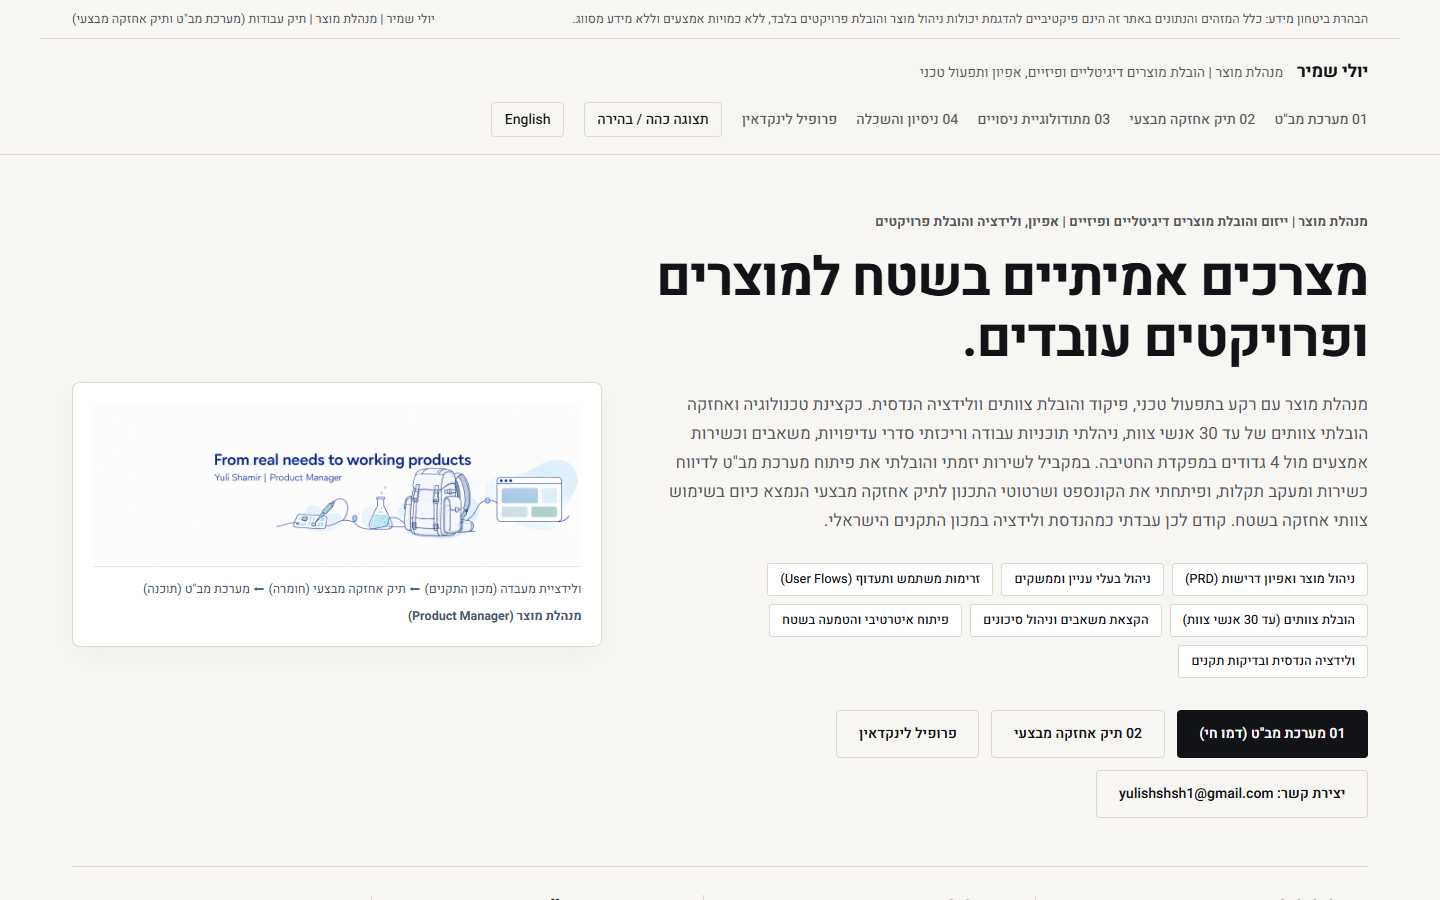
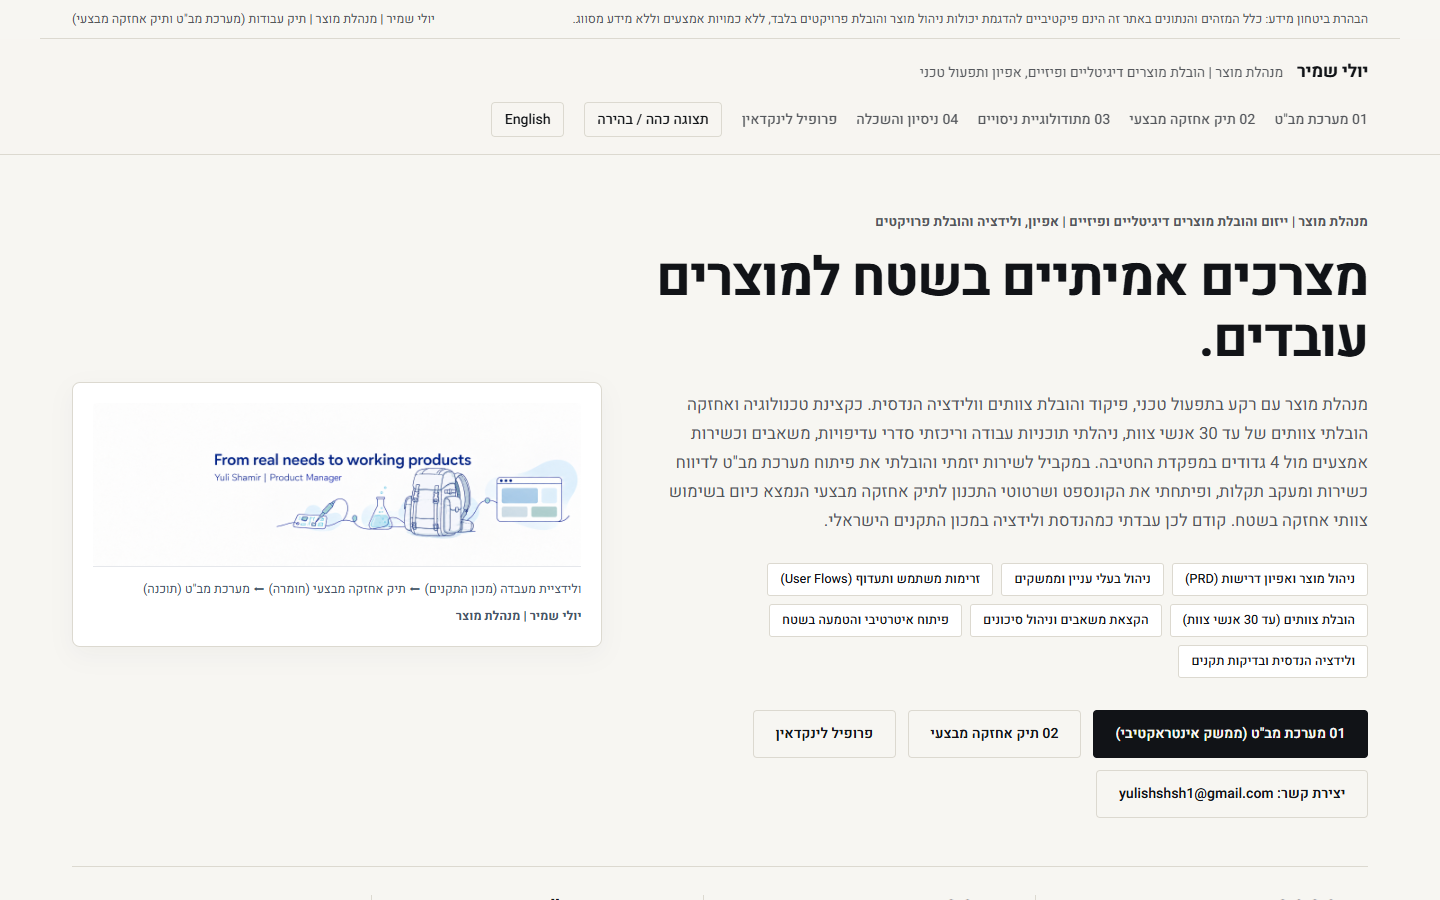
Polish Hebrew and English Product Manager titles and OG metadata

Changed region(s): [[0.6562, 0.3422, 0.9688, 0.4044], [0.5312, 0.7778, 0.875, 0.84], [0.2812, 0.6533, 0.4062, 0.7156]]

diff --git a/index.html b/index.html
@@ -9,18 +9,18 @@
       document.querySelector('meta[name="color-scheme"]').content = localStorage.getItem("color-scheme") ?? "light";
     } catch (e) {}
   </script>
-  <title>יולי שמיר | מנהלת מוצר | תיק עבודות (מערכת מב"ט ותיק אחזקה מבצעי) (מערכת מב"ט ותיק אחזקה מבצעי)</title>
-  <meta name="description" content="תיק עבודות של יולי שמיר | מנהלת מוצר של יולי שמיר: הדגמה חיה של מערכת מב"ט לבקרת כשירות ומעקב תקלות, ותיק אחזקה מבצעי (מענה שלם אחזקתי נייד)." />
+  <title>יולי שמיר | מנהלת מוצר | תיק עבודות (מערכת מב"ט ותיק אחזקה מבצעי)</title>
+  <meta name="description" content="יולי שמיר | מנהלת מוצר: תיק עבודות הכולל את מערכת מב״ט לבקרת כשירות ומעקב תקלות, ותיק אחזקה מבצעי (מענה שלם אחזקתי נייד)." />
   <meta property="og:type" content="website" />
   <meta property="og:url" content="https://yulishamir.github.io/" />
-  <meta property="og:title" content="יולי שמיר | מנהלת מוצר | תיק עבודות (מערכת מב"ט ותיק אחזקה מבצעי) (מערכת מב"ט ותיק אחזקה מבצעי)" />
-  <meta property="og:description" content="תיק עבודות של יולי שמיר | מנהלת מוצר של יולי שמיר: מערכת מב"ט לבקרת כשירות ותיק אחזקה מבצעי." />
+  <meta property="og:title" content="יולי שמיר | מנהלת מוצר | תיק עבודות (מערכת מב״ט ותיק אחזקה מבצעי)" />
+  <meta property="og:description" content="יולי שמיר | מנהלת מוצר: מערכת מב״ט לבקרת כשירות ותיק אחזקה מבצעי." />
   <meta property="og:image" content="https://yulishamir.github.io/og-preview.png" />
   <meta property="og:image:width" content="1440" />
   <meta property="og:image:height" content="900" />
   <meta name="twitter:card" content="summary_large_image" />
   <meta name="twitter:title" content="יולי שמיר | מנהלת מוצר | תיק עבודות (מערכת מב"ט ותיק אחזקה מבצעי)" />
-  <meta name="twitter:description" content="תיק עבודות של יולי שמיר | מנהלת מוצר של יולי שמיר: מערכת מב"ט לבקרת כשירות ותיק אחזקה מבצעי." />
+  <meta name="twitter:description" content="יולי שמיר | מנהלת מוצר: מערכת מב״ט לבקרת כשירות ותיק אחזקה מבצעי." />
   <meta name="twitter:image" content="https://yulishamir.github.io/og-preview.png" />
   <link rel="preconnect" href="https://fonts.googleapis.com">
   <link rel="preconnect" href="https://fonts.gstatic.com" crossorigin>
@@ -1211,7 +1211,7 @@
         <div>
           <span class="hero-kicker" data-i18n="heroKicker">מנהלת מוצר | ייזום והובלת מוצרים דיגיטליים ופיזיים | אפיון, ולידציה והובלת פרויקטים</span>
           <h1 class="hero-headline" data-i18n="heroHeadline">
-            מצרכים אמיתיים בשטח למוצרים ופרויקטים עובדים.
+            מצרכים אמיתיים בשטח למוצרים עובדים.
           </h1>
           <p class="hero-bio" data-i18n="heroBio">
             מנהלת מוצר עם רקע בתפעול טכני, פיקוד והובלת צוותים וולידציה הנדסית. כקצינת טכנולוגיה ואחזקה הובלתי צוותים של עד 30 אנשי צוות, ניהלתי תוכניות עבודה וריכזתי סדרי עדיפויות, משאבים וכשירות אמצעים מול 4 גדודים במפקדת החטיבה. במקביל לשירות יזמתי והובלתי את פיתוח מערכת מב"ט לדיווח כשירות ומעקב תקלות, ופיתחתי את הקונספט ושרטוטי התכנון לתיק אחזקה מבצעי הנמצא כיום בשימוש צוותי אחזקה בשטח. קודם לכן עבדתי כמהנדסת ולידציה במכון התקנים הישראלי.
@@ -1228,7 +1228,7 @@
           </div>
 
           <div class="hero-links">
-            <a href="#work-mabat" class="btn-editorial solid" data-i18n="cta1">01 מערכת מב"ט (דמו חי)</a>
+            <a href="#work-mabat" class="btn-editorial solid" data-i18n="cta1">01 מערכת מב"ט (ממשק אינטראקטיבי)</a>
             <a href="#work-backpack" class="btn-editorial ghost" data-i18n="cta2">02 תיק אחזקה מבצעי</a>
             <a href="https://www.linkedin.com/in/yuli-shamir-a19510447" target="_blank" rel="noopener" class="btn-editorial ghost" data-i18n="cta3">פרופיל לינקדאין</a>
             <a href="mailto:yulishshsh1@gmail.com" class="btn-editorial ghost" data-i18n="cta4">יצירת קשר: yulishshsh1@gmail.com</a>
@@ -1237,10 +1237,10 @@
 
         <!-- Visual Continuity with Yuli's LinkedIn Profile Banner -->
         <div class="signature-art-card">
-          <img src="yuli-banner.png" alt="מצרכים אמיתיים בשטח למוצרים ופרויקטים עובדים | יולי שמיר | מנהלת מוצר" fetchpriority="high" />
+          <img src="yuli-banner.png" alt="מצרכים אמיתיים בשטח למוצרים עובדים | יולי שמיר | מנהלת מוצר" fetchpriority="high" />
           <div class="signature-caption">
             <span data-i18n="sigCap">ולידציית מעבדה (מכון התקנים) ⬅ תיק אחזקה מבצעי (חומרה) ⬅ מערכת מב"ט (תוכנה)</span>
-            <strong data-i18n="sigRole">מנהלת מוצר (Product Manager)</strong>
+            <strong data-i18n="sigRole">יולי שמיר | מנהלת מוצר</strong>
           </div>
         </div>
       </div>
@@ -2008,7 +2008,7 @@
 
     let isHeb = true;
     const enText = {
-      opsecText: 'OPSEC Notice: All identifiers and figures on this site are fictional for Project & Product Management demonstration only, with zero asset quantities and zero classified information.',
+      opsecText: 'OPSEC Notice: All identifiers and figures on this site are fictional for Product Manager portfolio illustration only, with zero asset quantities and zero classified information.',
       opsecRight: 'Yuli Shamir | Product Manager Portfolio',
       brandName: 'Yuli Shamir',
       brandRole: 'Product Manager | Digital & Physical Products, Technical Operations & Project Leadership',
@@ -2019,8 +2019,8 @@
       navLinkedin: 'LinkedIn',
       themeLabel: 'Light / Dark',
       heroKicker: 'Product Manager | Digital & Physical Products | Discovery, Validation & Project Delivery',
-      heroHeadline: 'From real needs to working products and operational delivery.',
-      heroBio: 'Product manager and technical operations officer experienced in turning real field needs into working digital and physical products, backed by team leadership and laboratory validation. As a Technology & Maintenance Officer, I have led teams of up to 30, managed work plans and coordinated priorities, resources and equipment readiness across four battalions at brigade headquarters. Alongside my service, I founded Mabat, an independent mobile product for equipment-status reporting and fault tracking, and developed the concept and design sketches for a field maintenance backpack now used by operational maintenance teams. Previously, I worked as a Validation Engineer at the Standards Institution of Israel (SII).',
+      heroHeadline: 'From real needs to working products.',
+      heroBio: 'Product Manager and technical operations officer experienced in turning real field needs into working digital and physical products, backed by team leadership and laboratory validation. As a Technology & Maintenance Officer, I have led teams of up to 30, managed work plans and coordinated priorities, resources and equipment readiness across four battalions at brigade headquarters. Alongside my service, I founded Mabat, an independent mobile product for equipment-status reporting and fault tracking, and developed the concept and design sketches for a field maintenance backpack now used by operational maintenance teams. Previously, I worked as a Validation Engineer at the Standards Institution of Israel (SII).',
       sk1: 'Product Management & PRD',
       sk2: 'Stakeholder Management',
       sk3: 'User Flows & Prioritization',
@@ -2028,20 +2028,20 @@
       sk5: 'Resource Allocation & Risk Management',
       sk6: 'Agile Iterative Delivery',
       sk7: 'Validation Engineering (SII)',
-      cta1: '01 Explore Mabat Live Demo',
+      cta1: '01 Explore Mabat Interactive System',
       cta2: '02 Field Maintenance Backpack',
       cta3: 'LinkedIn Profile',
       cta4: 'Contact: yulishshsh1@gmail.com',
       sigCap: 'Lab Validation (SII) ➔ Field Maintenance Backpack (Hardware) ➔ Mabat System (Software)',
-      sigRole: 'Product Manager',
+      sigRole: 'Yuli Shamir | Product Manager',
       stat1: 'Continuous experience across IDF technical operations & team leadership (Oct 2022 to Present) and SII engineering validation (2020 to Oct 2022)',
       stat2: 'Personnel led across battalion and brigade assignments, plus coordinating maintenance readiness across four battalions at brigade headquarters',
       stat3Num: 'Mabat (PWA)',
       stat3: 'Independently initiated mobile web product (PWA) for equipment readiness and fault tracking, leading requirements, developer work and user feedback',
       stat4: 'Field requirements, design sketches and stakeholder coordination with division leadership and IDF suppliers for a backpack now used in the field',
-      mabatTag: 'PROJECT 01 / DIGITAL PRODUCT PROJECT',
+      mabatTag: 'PRODUCT 01 / DIGITAL PRODUCT (PWA)',
       mabatTitle: 'Mabat: Technology Readiness Control System',
-      bpTag: 'PROJECT 02 / PHYSICAL PRODUCT & DESIGN LEAD',
+      bpTag: 'PRODUCT 02 / PHYSICAL PRODUCT & CAD LEAD',
       bpTitle: 'Field Maintenance Backpack',
       valTag: '03 / VALIDATION & MEASUREMENT PLAN',
       valTitle: 'Validation & Measurement Plan',
